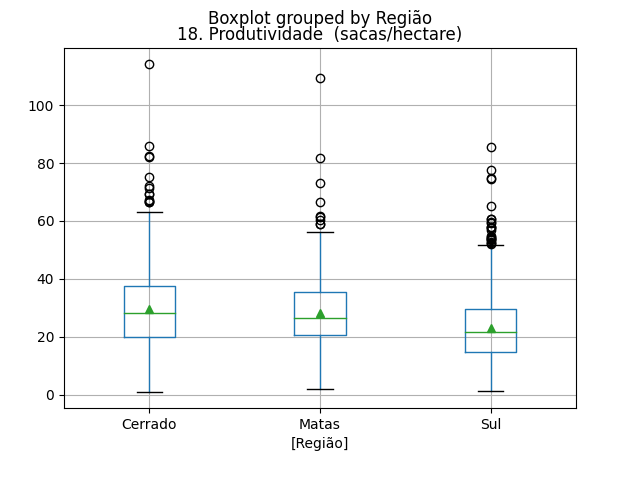
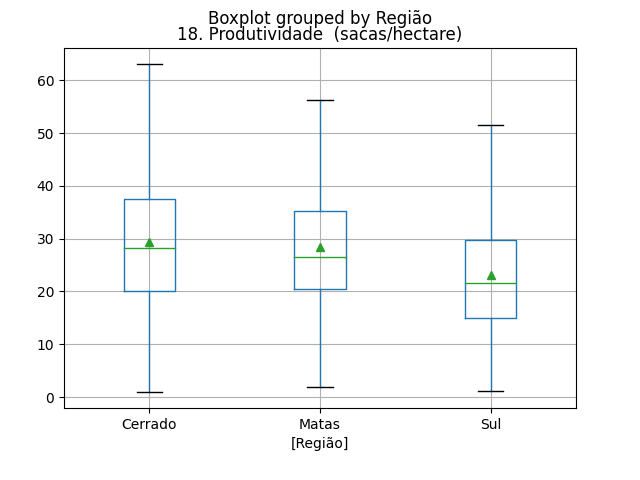
Alterado boxplots sem outliers

diff --git a/src/generate_markdown.py b/src/generate_markdown.py
@@ -32,7 +32,7 @@ if __name__ == "__main__":
     for column in columns:
         mdFile.new_header(2, column.split(". ")[1], add_table_of_contents="n")
         df_boxplot = df[[group_column, column]]
-        boxplot = df_boxplot.boxplot(by=group_column, return_type='dict', showmeans=True)
+        boxplot = df_boxplot.boxplot(by=group_column, return_type='dict', showmeans=True, showfliers=False)
         
         bp_data = boxplot[column]
         means = [mean.get_ydata().tolist()[0] for mean in bp_data["means"]]
